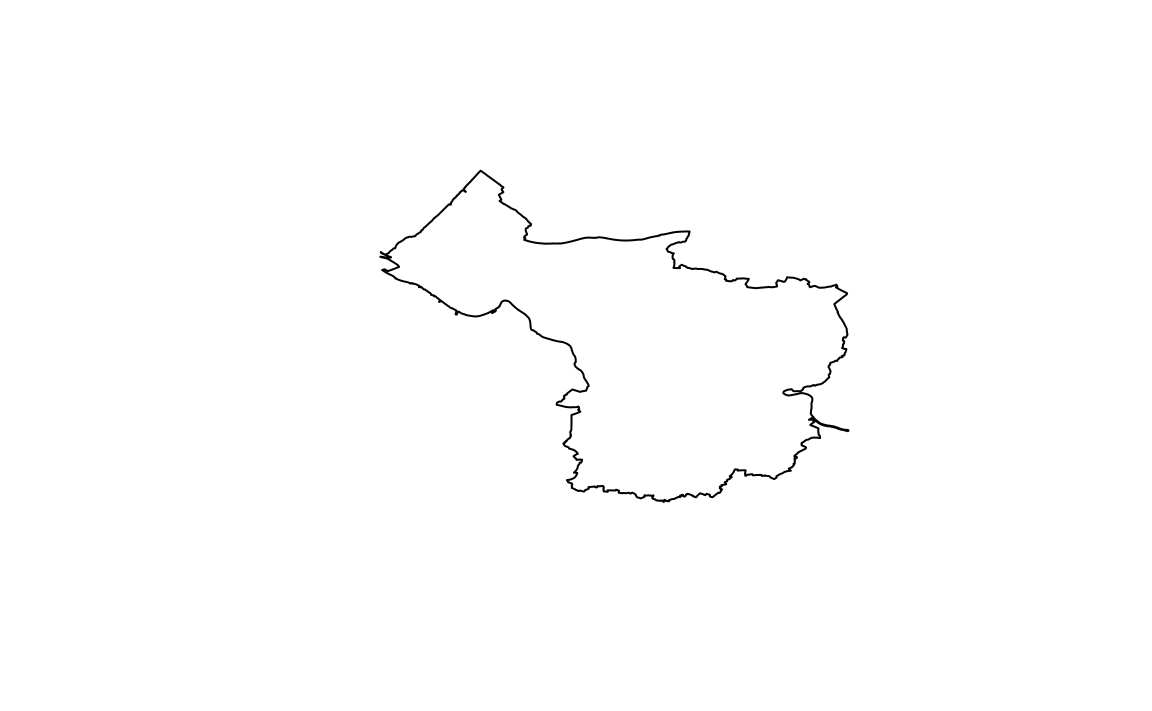
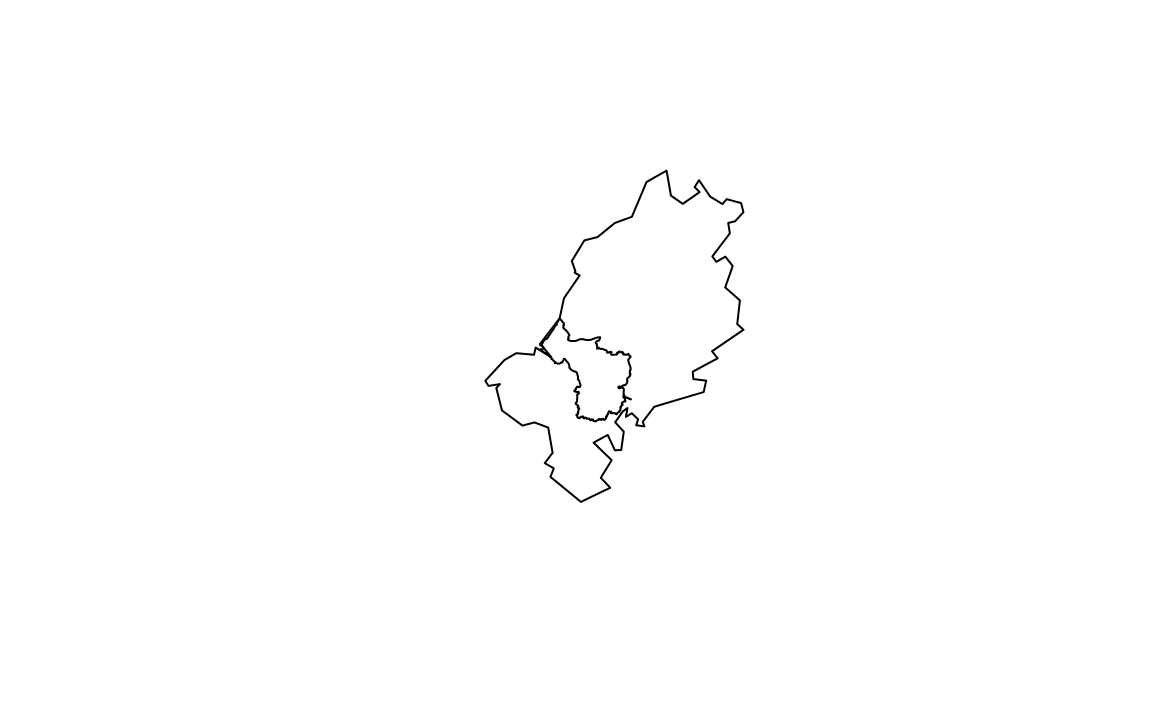
Updating book (1986)
Former-commit-id: c3639581e935b30e48febbc6d85d397c20b711c9
Former-commit-id: 8cfb33b152cea283f1ea59dc0dc8fcafb05213ed

diff --git a/transport.html b/transport.html
@@ -341,13 +341,42 @@ Figure 8.1: Overview map of Bristol, with key parts of the transport network rep
 <p>OSM will will often contain valid depiction of the case study city or region of interest (in this case the result is the same as the officially defined area of the Local Authority District). However the approach is problematic because OSM data may not correspond to the most recent administrative areas over which transport planning authorities have control, meaning the analysis may be of limited interest to local transport planners. More importantly, official administrative zones often do not relate to ‘travel watersheds’, areas that can are defined not by (often arbitrary) political decisions but by data on where people actually travel to.</p>
 <p>To overcome this issue for transport data analysis in the UK, the Travel to Work Areas (TTWAs) were created. TTWAs are contiguous zones defined roughly as areas in which 75% of the population both live and work. Because Bristol is a major employer attracting travel from surrounding towns, its TTWA is substantially larger than its administratively defined area, as illustrated in Figure <a href="transport.html#fig:ttwa-bristol">8.2</a>.</p>
 <div class="sourceCode"><pre class="sourceCode r"><code class="sourceCode r">region =<span class="st"> </span><span class="kw">readRDS</span>(<span class="st">&quot;extdata/bristol-region.Rds&quot;</span>)
-<span class="kw">plot</span>(region)</code></pre></div>
+region_ttwa =<span class="st"> </span><span class="kw">readRDS</span>(<span class="st">&quot;extdata/bristol-ttwa.Rds&quot;</span>)
+<span class="kw">plot</span>(region_ttwa$geometry)
+<span class="kw">plot</span>(region$Bristol, <span class="dt">add =</span> <span class="ot">TRUE</span>)</code></pre></div>
 <div class="figure" style="text-align: center"><span id="fig:ttwa-bristol"></span>
 <img src="figures/ttwa-bristol-1.png" alt="Region definitions in Bristol" width="576" />
 <p class="caption">
 Figure 8.2: Region definitions in Bristol
 </p>
 </div>
+<div class="sourceCode"><pre class="sourceCode r"><code class="sourceCode r">zones =<span class="st"> </span><span class="kw">readRDS</span>(<span class="st">&quot;extdata/bristol-zones.Rds&quot;</span>)
+od =<span class="st"> </span><span class="kw">readRDS</span>(<span class="st">&quot;extdata/bristol-od.Rds&quot;</span>)
+zones_attr =<span class="st"> </span>od %&gt;%
+<span class="st">  </span><span class="kw">group_by</span>(geo_code1) %&gt;%<span class="st"> </span>
+<span class="st">  </span><span class="kw">summarise_if</span>(is.numeric, sum) %&gt;%<span class="st"> </span>
+<span class="st">  </span><span class="kw">rename</span>(<span class="dt">geo_code =</span> geo_code1)</code></pre></div>
+<div class="sourceCode"><pre class="sourceCode r"><code class="sourceCode r">zones =<span class="st"> </span><span class="kw">left_join</span>(zones, zones_attr)
+<span class="co">#&gt; Joining, by = &quot;geo_code&quot;</span>
+<span class="kw">sum</span>(zones$all)
+<span class="co">#&gt; [1] 244489</span>
+<span class="kw">summary</span>(zones)
+<span class="co">#&gt;    geo_code             name                all           bicycle    </span>
+<span class="co">#&gt;  Length:100         Length:100         Min.   :   78   Min.   :   3  </span>
+<span class="co">#&gt;  Class :character   Class :character   1st Qu.: 1086   1st Qu.:  48  </span>
+<span class="co">#&gt;  Mode  :character   Mode  :character   Median : 1807   Median :  92  </span>
+<span class="co">#&gt;                                        Mean   : 2445   Mean   : 185  </span>
+<span class="co">#&gt;                                        3rd Qu.: 3261   3rd Qu.: 232  </span>
+<span class="co">#&gt;                                        Max.   :22972   Max.   :2327  </span>
+<span class="co">#&gt;       foot        car_driver       train              geometry  </span>
+<span class="co">#&gt;  Min.   :   1   Min.   :  33   Min.   :  0   MULTIPOLYGON :100  </span>
+<span class="co">#&gt;  1st Qu.:  86   1st Qu.: 690   1st Qu.:  4   epsg:4326    :  0  </span>
+<span class="co">#&gt;  Median : 180   Median :1284   Median : 12   +proj=long...:  0  </span>
+<span class="co">#&gt;  Mean   : 354   Mean   :1463   Mean   : 25                      </span>
+<span class="co">#&gt;  3rd Qu.: 308   3rd Qu.:1866   3rd Qu.: 34                      </span>
+<span class="co">#&gt;  Max.   :5158   Max.   :8527   Max.   :382</span></code></pre></div>
+<div class="sourceCode"><pre class="sourceCode r"><code class="sourceCode r"><span class="kw">plot</span>(zones %&gt;%<span class="st"> </span><span class="kw">select</span>(bicycle, foot, car_driver, train))</code></pre></div>
+<p><img src="figures/unnamed-chunk-9-1.png" width="576" style="display: block; margin: auto;" /></p>
 </div>
 <div id="nodes-on-the-transport-system" class="section level2">
 <h2><span class="header-section-number">8.3</span> Nodes on the transport system</h2>
